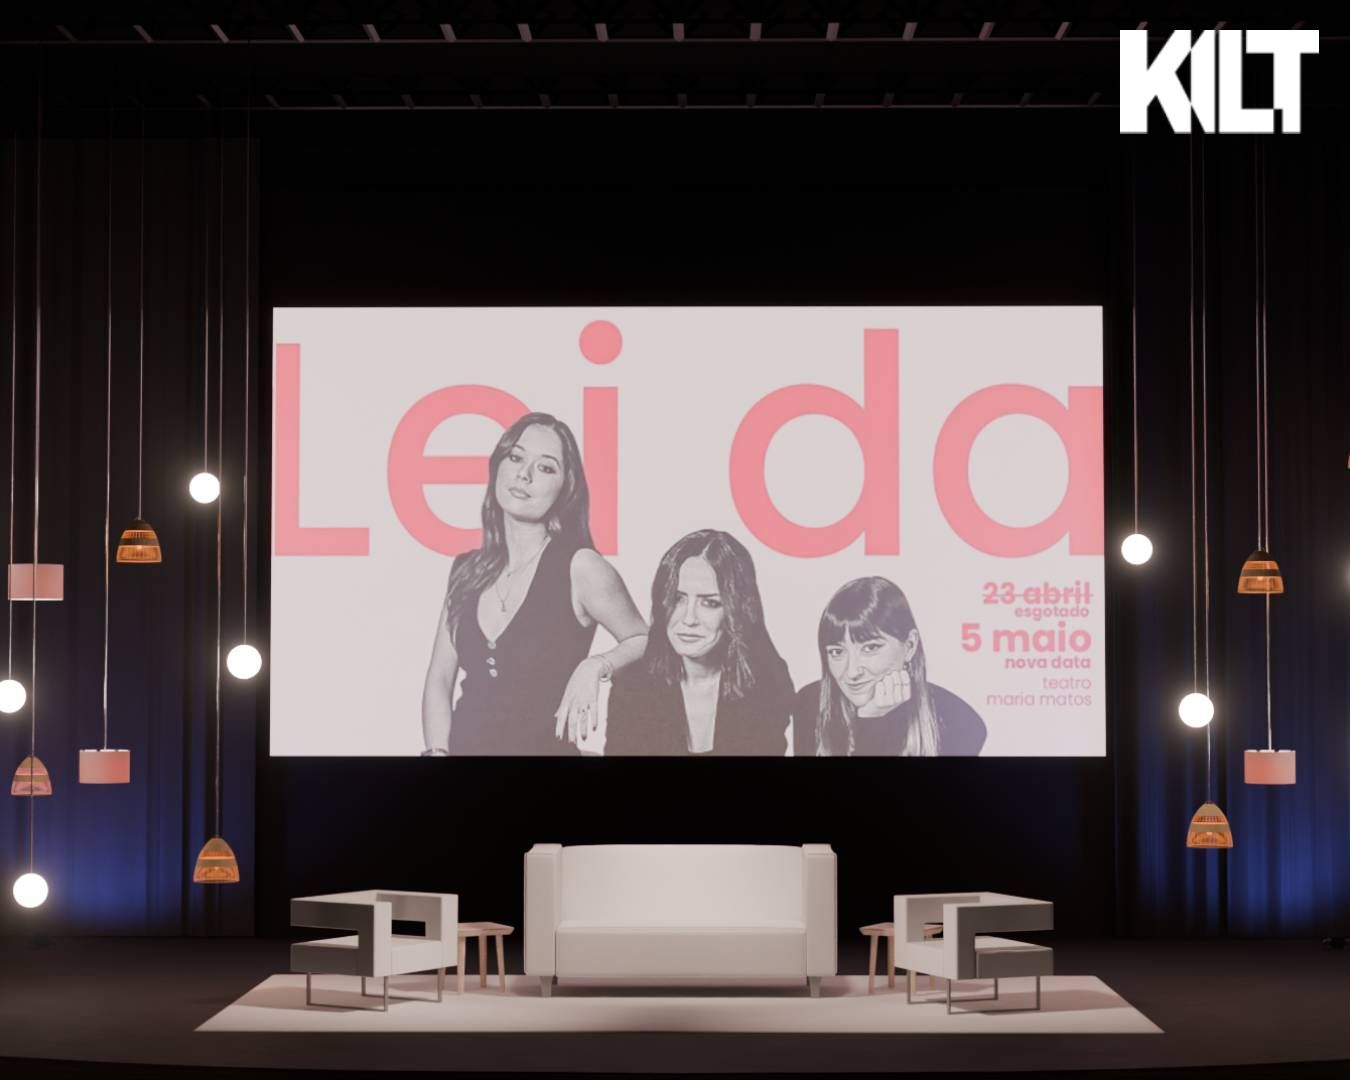
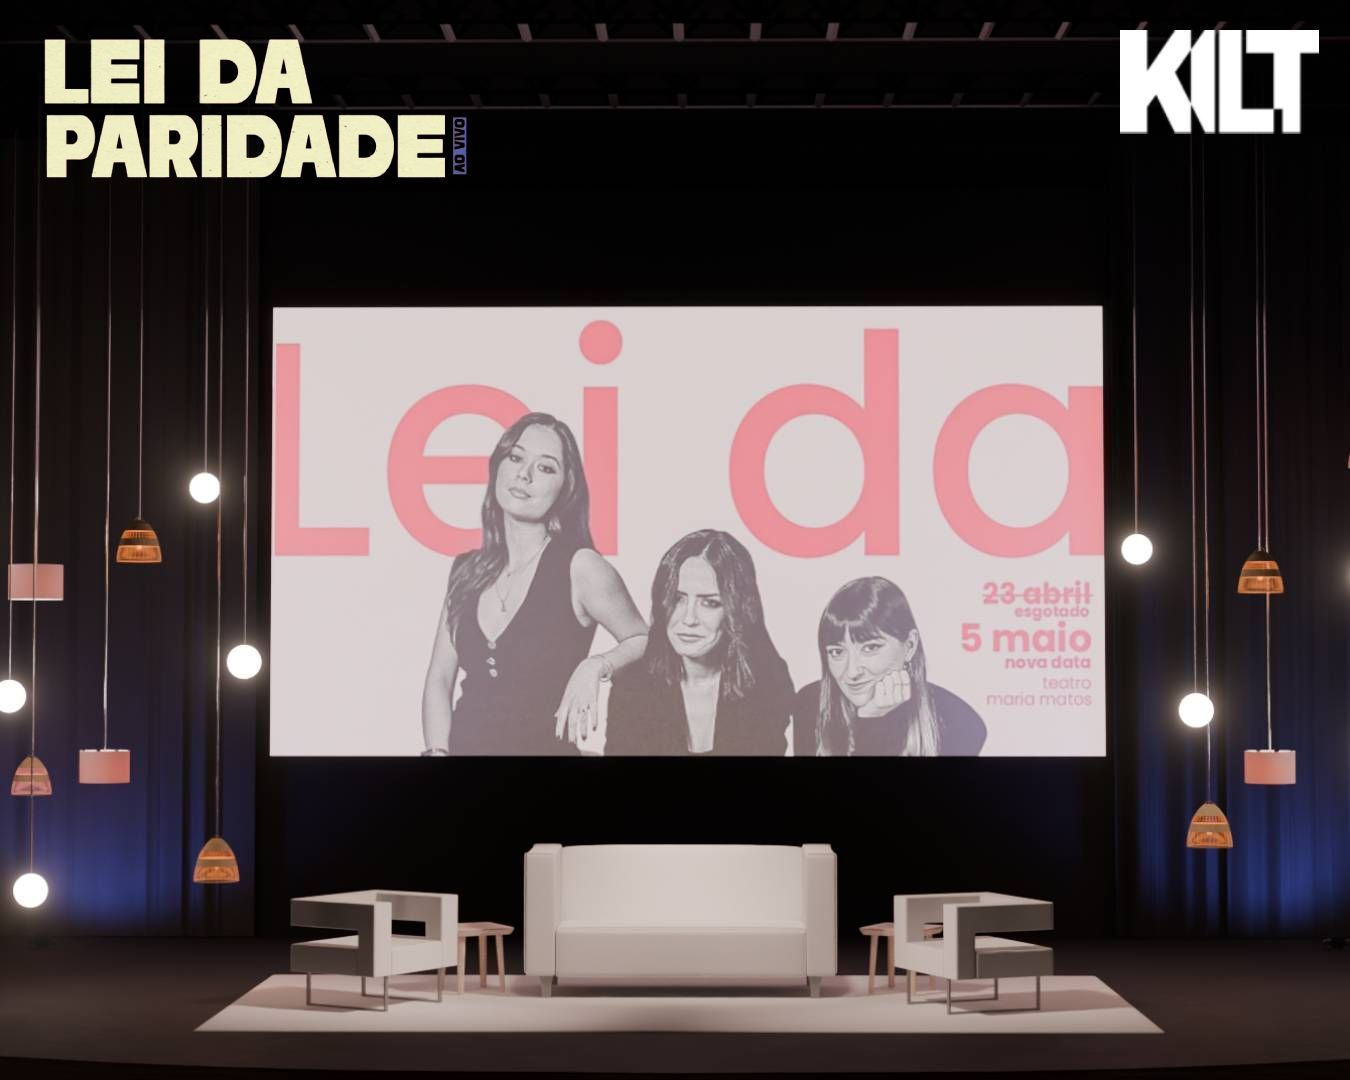
360Replace

Changed region(s): [[0.0311, 0.0306, 0.3733, 0.1833]]

diff --git a/index.html b/index.html
@@ -64,12 +64,18 @@
 </div>
         <div class="row" >
 
-            <!-- COLUNA DIREITA -->
+            <!-- COLUNA ESQUERDA -->
             <div class="column">
 
-                 <!-- Moldura Plagio -->
+                    <!-- Graças A Neno -->
+                <a href="Projetos/GracasANeno.html#Focus" class="project-link visuals" data-aos="fade-up" >
+                    <img src="imagens/Capas/GracasANeno_Capa.jpg" alt="Graças a Neno - Mockup 3D">
+                    <div class="overlay">Graças a Neno <br>Mockup 3D</div>
+                </a>
+
+                 <!-- Prata da Casa - BETCLIC -->
                 <a href="Projetos/PrataDaCasa-Betclic.html#Focus" class="project-link visuals" data-aos="fade-up" >
-                    <img src="imagens/Capas/PratadaCasa_Capa.png" alt="Projeto 1">
+                    <img src="imagens/Capas/PratadaCasa_Capa.jpg" alt="Prata da Casa - BETCLIC - Mockup 3D">
                     <div class="overlay">Prata da Casa - BETCLIC <br>Mockup 3D</div>
                 </a>
 
@@ -83,19 +89,19 @@
 
                 <!-- Islander -->
                 <a href="Projetos/Islander.html#Focus" class="project-link characters" data-aos="fade-up" >
-                    <img src="imagens/Capas/Islander.jpg" alt="Projeto 6">
+                    <img src="imagens/Capas/Islander.jpg" alt="Islander">
                     <div class="overlay">Islander</div>
                 </a>
 
                 <!-- Yuzuriha -->
                 <a href="Projetos/Yuzuriha.html#Focus" class="project-link characters" data-aos="fade-up" >
-                    <img src="imagens/Capas/Yuzuriha.png" alt="Projeto 3">
+                    <img src="imagens/Capas/Yuzuriha.png" alt="Yuzuriha - Hell's Paradise">
                     <div class="overlay">Yuzuriha - Hell's Paradise</div>
                 </a>
 
                  <!-- Sarada -->
                 <a href="Projetos/Sarada_Uchiha.html#Focus" class="project-link characters" data-aos="fade-up" >
-                    <img src="imagens/Capas/sarada.jpg" alt="Projeto 5">
+                    <img src="imagens/Capas/sarada.jpg" alt="Sarada Uchiha - Boruto">
                     <div class="overlay">Sarada Uchiha - Boruto </div>
                 </a>
 
@@ -114,31 +120,31 @@
 
                   <!-- Lei Da Paridade -->
                 <a href="Projetos/LeiDaParidade.html#Focus" class="project-link visuals" data-aos="fade-up" >
-                    <img src="imagens/Capas/LeiDaParidade_CAPA.jpg" alt="Projeto 1">
+                    <img src="imagens/Capas/LeiDaParidade_CAPA.jpg" alt="Lei Da Paridade - Mockup 3D">
                     <div class="overlay">Lei Da Paridade <br> Mockup 3D</div>
                 </a>
 
                 <!-- Grandma -->
                 <a href="Projetos/Grandma.html#Focus" class="project-link characters" data-aos="fade-up" >
-                    <img src="imagens/Capas/Grandma.jpg" alt="Projeto 10">
+                    <img src="imagens/Capas/Grandma.jpg" alt="Grandma - HAKO Animation">
                     <div class="overlay">Grandma <br> HAKO Animation</div>
                 </a>
 
-                 <!-- Cemiterio -->
+                 <!-- Who Left The Luggage? -->
                  <a href="Projetos/WhoLeftTheLuggage.html#Focus" class="project-link environments" data-aos="fade-up" >
-                    <img src="imagens/Capas/WLTB_Capa_MainPage.jpg" alt="Projeto 8">
+                    <img src="imagens/Capas/WLTB_Capa_MainPage.jpg" alt="Who Left The Luggage?">
                     <div class="overlay">Who Left The Luggage?</div>
                 </a>
                 
-                <!-- Cemiterio -->
+                <!-- Cemetery -->
                 <a href="Projetos/Cemetery_HAKO.html#Focus" class="project-link environments" data-aos="fade-up" >
-                    <img src="imagens/Capas/CemeterioCapa.png" alt="Projeto 8">
+                    <img src="imagens/Capas/CemeterioCapa.png" alt="Cemetery HAKO Animation">
                     <div class="overlay">Cemetery <br> HAKO Animation</div>
                 </a>
 
                 <!-- Cleo -->
                 <a href="Projetos/Cleo_AnswerAgain.html#Focus" class="project-link characters" data-aos="fade-up" >
-                    <img src="imagens/Capas/Cleo.png" alt="Projeto 5">
+                    <img src="imagens/Capas/Cleo.png" alt="Cleo - Answer it Again">
                     <div class="overlay">Cleo <br> Answer it Again </div>
                 </a>
 
@@ -156,18 +162,24 @@
 
             </div>
 
-             <!-- COLUNA ESQUERDA -->
+             <!-- COLUNA DIREITA -->
             <div class="column">
 
-                <!-- Moldura Plagio -->
+                  <!-- LEI DA PARIDADE -->
+                <a href="Projetos/LeiDaParidade_2026.html#Focus" class="project-link characters" data-aos="fade-up" >
+                    <img src="imagens/Capas/LeiDaParidade2026_CAPA.jpg" alt="Lei Da Paridade 2026 - Mockup 3D">
+                    <div class="overlay">Lei Da Paridade 2026 <br> Mockup 3D</div>
+                </a>
+
+                <!-- HECATE -->
                 <a href="Projetos/Hecate.html#Focus" class="project-link characters" data-aos="fade-up" >
-                    <img src="imagens/Capas/Hecate_Capa.jpg" alt="Projeto 1">
+                    <img src="imagens/Capas/Hecate_Capa.jpg" alt="HECATE - HADES II">
                     <div class="overlay">HECATE <br>  HADES II</div>
                 </a>
        
                  <!-- Moldura Plagio -->
                 <a href="Projetos/Moldura_Plagio.html#Focus" class="project-link visuals" data-aos="fade-up" >
-                    <img src="imagens/Capas/Frame_PLAGIOAOVIVO_Capa.jpg" alt="Projeto 1">
+                    <img src="imagens/Capas/Frame_PLAGIOAOVIVO_Capa.jpg" alt="MonaLisa Frame - PLÁGIO AO VIVO">
                     <div class="overlay">MonaLisa Frame <br> PLÁGIO AO VIVO</div>
                 </a>
 
@@ -191,7 +203,7 @@
                     <div class="overlay">Kafka - HSR</div>
                 </a>
 
-                <!-- ArtDeco -->
+                <!-- Interior "Deathloop" Inspired -->
                 <a href="Projetos/Interior_Deathloop.html#Focus" class="project-link environments" data-aos="fade-up" >
                     <img src="imagens/Capas/artdeco.jpg" alt="Interior modeling Deathloop Inspired">
                     <div class="overlay">Interior "Deathloop" Inspired</div>
@@ -217,8 +229,8 @@
                 <div class="social-icons">
                     <a href="https://www.linkedin.com/in/rafasilart/" target="_blank"><i class="fab fa-linkedin"></i></a>
                     <a href="https://www.artstation.com/rafasilart" target="_blank"><i class="fab fa-artstation"></i></a>
-                    <a href="https://www.instagram.com/rafasilart/" target="_blank"><i class="fab fa-instagram"></i></a>
-                    <a href="https://twitter.com/rafasilart" target="_blank"><i class="fab fa-twitter"></i></a>
+              <!--        <a href="https://www.instagram.com/rafasilart/" target="_blank"><i class="fab fa-instagram"></i></a>
+                    <a href="https://twitter.com/rafasilart" target="_blank"><i class="fab fa-twitter"></i></a> -->
                 </div>
                 <div>
                   <div>

diff --git a/Projetos/LeiDaParidade_2026.html b/Projetos/LeiDaParidade_2026.html
@@ -49,12 +49,16 @@
             <div class="text-container" id="Focus">
                 <h1>Lei da Paridade 2026 - Mockup 3D</h1>
                 <h6 class="calendario"> May 25, 2026</h6> 
-                <p>For the Lei da Paridade 2026 live event in Lisbon and Porto, I collaborated with the production company to design and assemble the 3D stage scenery, 
-                  having personally managed the setup at the Tivoli in Lisbon. 
+                <p>For the Lei da Paridade 2026 live event in Lisbon (Teatro Tivoli BBVA) and Porto (Teatro Sá Da Bandeira),  
+                  I collaborated with the production company to design and assemble the 3D stage scenery. </p>
+
+                  <p>
+                  About the event:
+                
                   In this new live show, Adriana, Leonor, and Maria step outside the Expresso newsroom to debate a simple yet controversial question: 
                   who is afraid of equality? Through witty banter and firm convictions, they tackle feminism, culture, 
-                  and daily life in a sharp conversation about the state of the world. You can find more details on the official   <a class="link-eventos" href="https://kilt.pt/eventos/lei-da-paridade-ao-vivo/"> 
-                   >Lei da Paridade ao Vivo </a> page.</p>
+                  and daily life in a sharp conversation about the state of the world. You can find more details on the official <a class="link-eventos" href="https://kilt.pt/eventos/lei-da-paridade-ao-vivo/"> 
+                  Lei da Paridade</a></p>
                 
                 
                     <p>Below is a gallery showcasing the final renders of the stage made in Blender</p>               
@@ -63,22 +67,25 @@
             <!-- Additional images below text -->
             <div class="gallery">
                 <img src="../imagens/LeiDaParidade_2026/LeiDaParidade_2026_1.jpg" alt="Frame Render 1">
-                <p class="legendas">3D Render Front</p>
+                <p class="legendas">3D Render</p>
                 <img src="../imagens/LeiDaParidade_2026/LeiDaParidade_2026_2.jpg" alt="Frame Render 2">
-                <p class="legendas">3D Render Main</p>
+                <p class="legendas">3D Render</p>
                 <img src="../imagens/LeiDaParidade_2026/LeiDaParidade_2026_3.jpg" alt="Frame Print">
-                <p class="legendas">3D Render Top View</p>
+                <p class="legendas">3D Render</p>
                 <img src="../imagens/LeiDaParidade_2026/LeiDaParidade_2026_4.jpg" alt="Frame Print">
                 <p class="legendas">3D Render</p>
                 <img src="../imagens/LeiDaParidade_2026/LeiDaParidade_2026_5.jpg" alt="Frame Print">
-                <p class="legendas">3D Render Close Up</p>
+                <p class="legendas">3D Render</p>
                 <img src="../imagens/LeiDaParidade_2026/LeiDaParidade_2026_6.jpg" alt="Frame Print">
-                <p class="legendas">PDF pages</p>
+                <p class="legendas">3D Render</p>
+                <img src="../imagens/LeiDaParidade_2026/Viewport_Render.jpg" alt="Frame Print">
+                <p class="legendas">Viewport Render</p>
+
             </div>
 
         </div>
 
-            <p class="legendas-gallery"> Live Podcast Show</p>
+            <p class="legendas-gallery"> Live Podcast Show Photos</p>
             <div class="gallery-row">
                
                 <div class="gallery-column">
@@ -129,7 +136,7 @@
                 </div>
           
           <div class="copyright">
-              <p>© 2024 Rafael Silva (Rafasilart). Todos os direitos reservados.</p>
+              <p>© 2026 Rafael Silva (Rafasilart). Todos os direitos reservados.</p>
               <p>Made with <span style="color: var(--laranja-secundario);">❤️</span> by me</p>
               <p>Contact: <a href="mailto:[email redacted]">[email redacted]</a></p>
           </div>